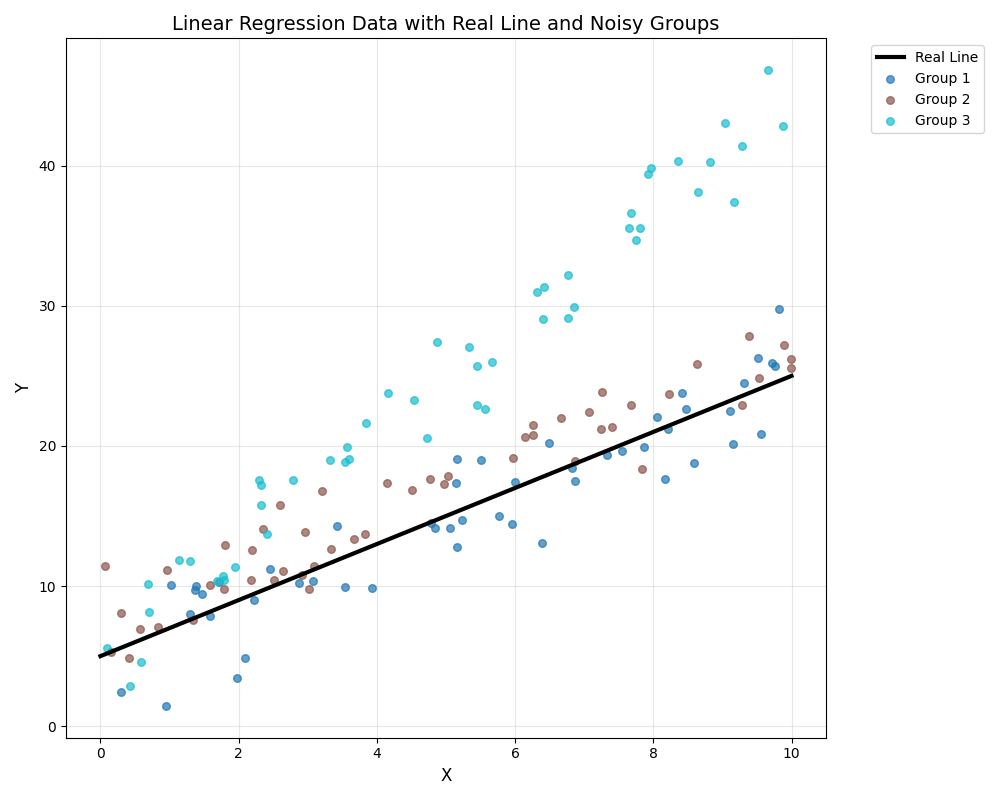
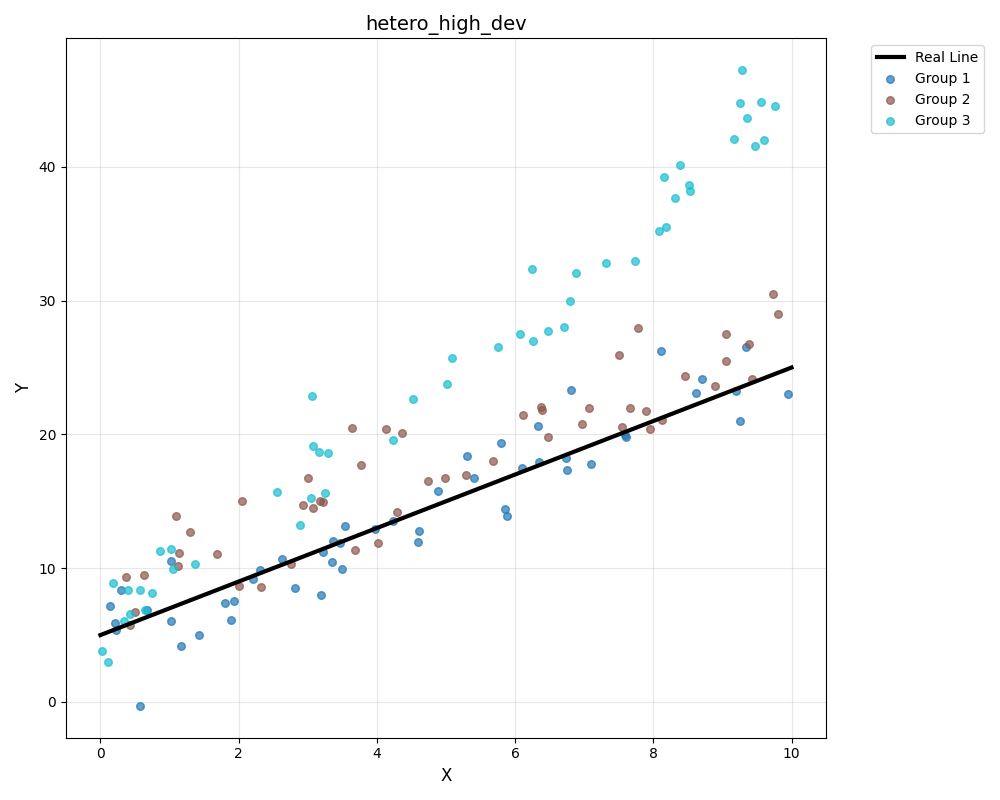
updated readme, put visualizations for dataset pretunes

diff --git a/plot/dataset_visualizer.py b/plot/dataset_visualizer.py
@@ -51,7 +51,7 @@ def generate_linear_plot(real_slope, real_constant, starting_x, ending_x, error_
     # Customize the plot
     plt.xlabel('X', fontsize=12)
     plt.ylabel('Y', fontsize=12)
-    plt.title('Linear Regression Data with Real Line and Noisy Groups', fontsize=14)
+    plt.title(file_name, fontsize=14)
     plt.legend(bbox_to_anchor=(1.05, 1), loc='upper left')
     plt.grid(True, alpha=0.3)
     plt.tight_layout()

diff --git a/README.md b/README.md
@@ -6,7 +6,7 @@ A tool for simulation and analysis of top FL client selection algorithms.
 
 ## Simulation Logic
 
-This simulation tries to derive a 2D line using federated learning on 15 clients. We assume that we have are trying to reach a "true" line, and create different syntetic datasets for clients, where some follow this "true" line, and some don't. Clients all have different download, compute and upload time. The following client selection algorithms can be selected in the simulation:
+This simulation tries to derive a 2D line using federated learning on 15 clients. We assume that we have are trying to reach a "true" line, and create different syntetic datasets for clients, where some follow this "true" line, and some don't. Clients all have different download, compute and upload time, and they differ in many other ways as well. User can adjust these parameters as explained later to run the simulation in different settings. The following client selection algorithms can be selected in the simulation:
 
 - Loss based client selection
 - Threshold based client selection
@@ -15,22 +15,34 @@ This simulation tries to derive a 2D line using federated learning on 15 clients
 
 ## Experiments
 
+### Running an Experiment
+
 Before running the experiment, you should go into the run_experiment.py file in the root directory, and modify the variables according to your needs. Values that can be modified can be found between "VARIABLE SPOT START" and "VARIABLE SPOT END". The explanation of the possible values for the exp_type variable is given below, since it is not clear from the get go.
+
+To run an experiment, run the run_all_exp.py file located in the managers/ directory. This will run all simulations with all possible CS algo + dataset pretune combinations (so 4*6=24 experiments) in parallel, and repeat this 10 times to get averaged results. The results from the experiment will be saved under plot/outputs/ directory.
+
+### Pretuned Datasets
 
 There are several pretuned experiment datasets for a user to utilize. The datasets are still generated during runtime, but these options effect the parameters of the dataset being generated. Types of datasets, with their explanations, and instructions on how to run an experiment is given below.
 
 - **homo_low_dev**: Syntetic datasets of the clients all follow the same normal distribution, and they all have low individual deviation
+<center><img src="plot/dataset_visualizations/homo_low_dev.png" height="300"></center>
+
 - **homo_high_dev**: Syntetic datasets of the clients all follow the same normal distribution, but with deviation high individual deviation
+<center><img src="plot/dataset_visualizations/homo_high_dev.png" height="300"></center>
+
 - **semi_homo_low_dev**: Syntetic datasets of clients follow different normal distributions. In particular, some have positively skewed data, and some have negatively skewed data, and some are between. But they all follow low individual deviations, and they average to the true line.
+<center><img src="plot/dataset_visualizations/semi_homo_low_dev.png" height="300"></center>
+
 - **semi_homo_high_dev**: Syntetic datasets of clients follow different normal distributions. In particular, some have positively skewed data, and some have negatively skewed data, and some are between. They all follow high individual deviations, but they average to the true line.
+<center><img src="plot/dataset_visualizations/semi_homo_high_dev.png" height="300"></center>
+
 - **hetero_low_dev**: Syntetic datasets of clients follow different normal distributions. In particular, some are positively skewed, and some are on the true line. But they follow low individual deviations.
+<center><img src="plot/dataset_visualizations/hetero_low_dev.png" height="300"></center>
+
 - **hetero_low_dev**: Syntetic datasets of clients follow different normal distributions. In particular, some are positively skewed, and some are on the true line. They follow high individual deviations.
+<center><img src="plot/dataset_visualizations/hetero_high_dev.png" height="300"></center>
 
-To run an experiment, simply execute the following command in the FLSim/ directory after modifying the variables:
-
-```shell
-python run_experiment.py
-```
 
 **WARNING**: Picking high resp_var and non-homo experiment_type may result in inconsistent experiment result, as clients are attended response times randomly.
 
